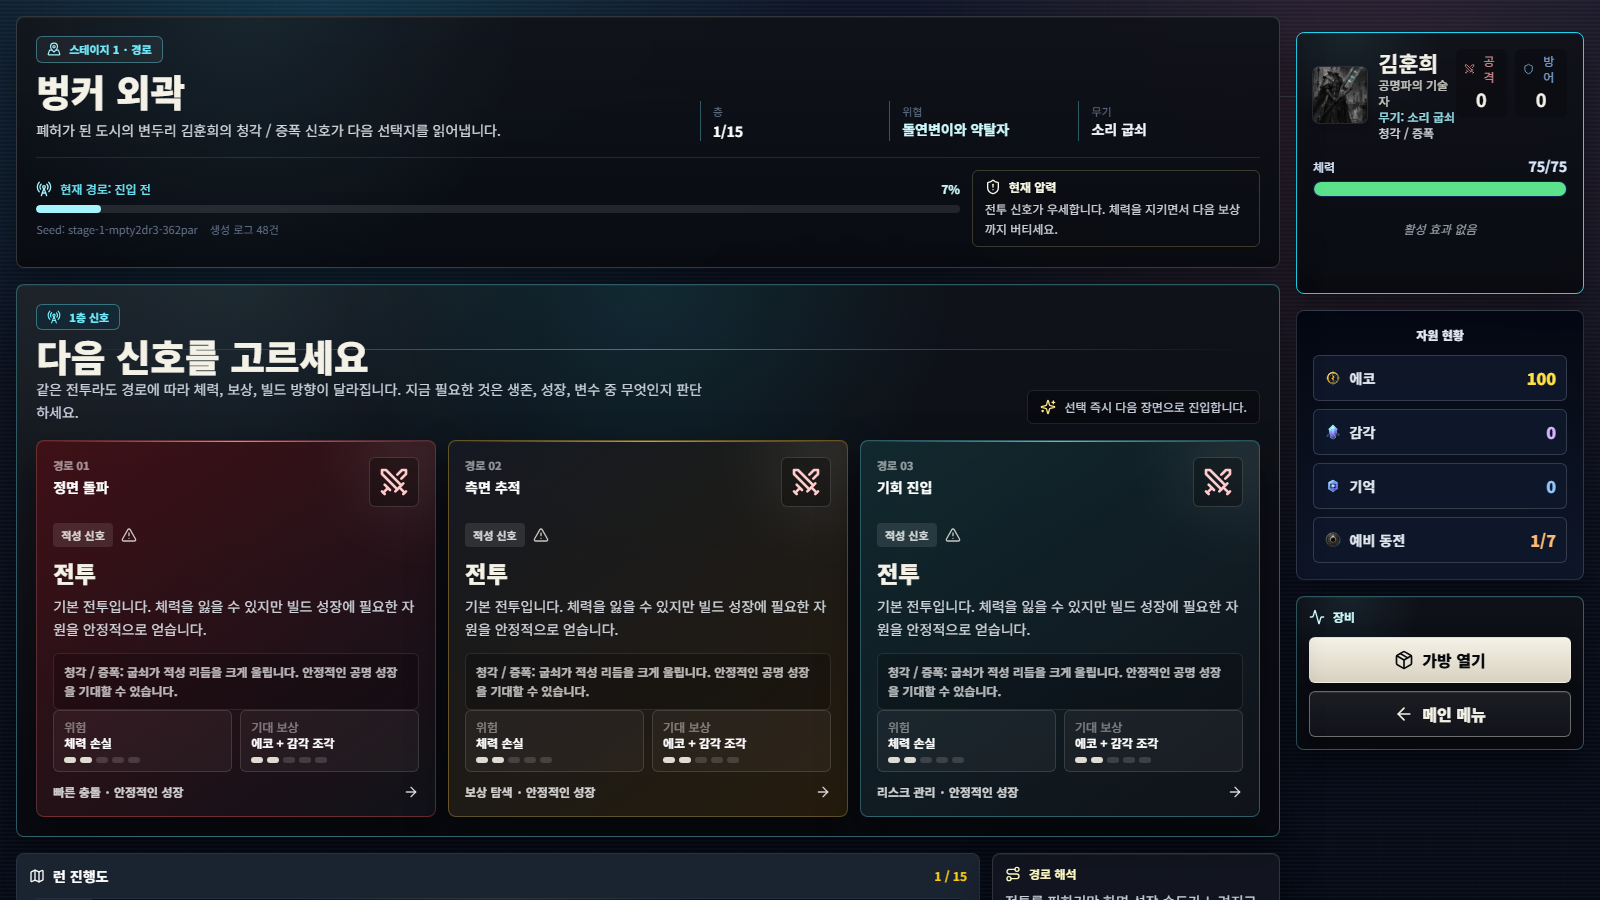
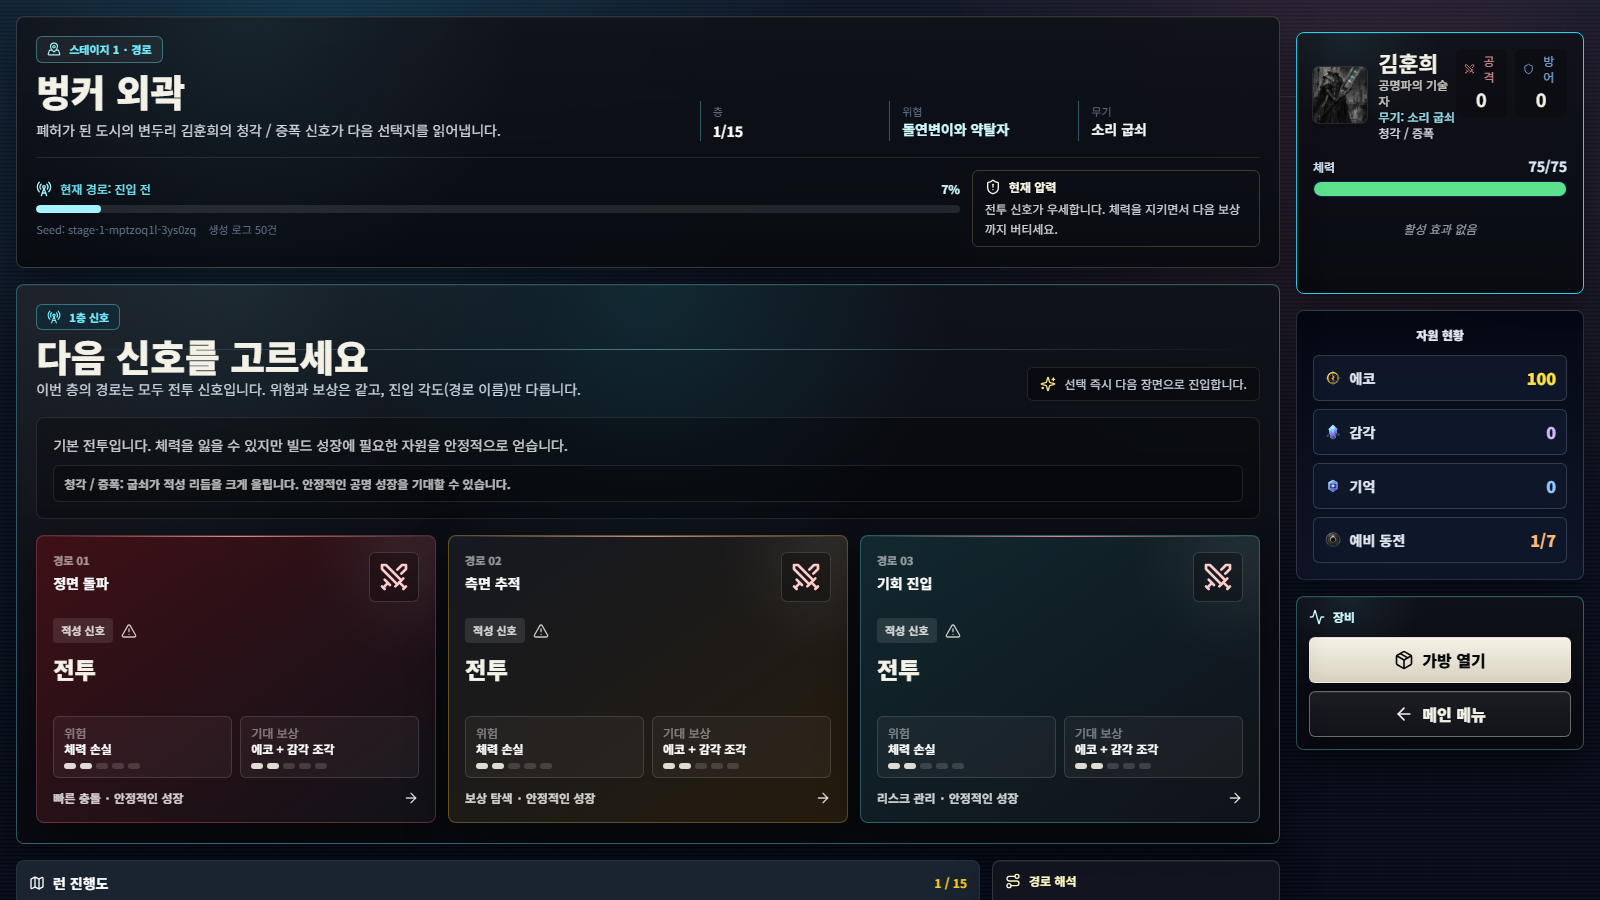
fix(exploration): 동일 유형 경로 카드 설명 중복 제거 + 인트로 거짓 문구 정정 (V-1)
- selectNode가 적을 랜덤 풀에서 뽑고 경로 index를 무시 → 세 경로는 게임적으로 동일. 거짓 차별 대신 중복 제거 채택.
- allSameType일 때 공통 description+senseHint를 보드 상단 배너로 1회 이동, 카드는 경로명·routeHint·위험/보상에 집중 (nodePresentation.ts 불변 → util 224 테스트 보존).
- 인트로 거짓 문구(경로에 따라 체력·보상 달라짐 — selectNode와 모순)를 '위험·보상 동일, 진입 각도만 다름'으로 정정.
- 모바일: 기존 .route-signal-board p 숨김으로 빈 배너 박스 노출 → components-03.css 두 @media에 .route-common-brief 숨김 추가(기존 미니멀 유지).
- headless CDP 캡처+DOM 진단으로 데스크탑 배너/모바일 숨김/카드 중복 제거 검증. exploration.png 갱신.

Changed region(s): [[0.0, 0.4044, 0.8125, 1.0], [0.0938, 0.2489, 0.1875, 0.28]]

diff --git a/src/components/NodeSelection.tsx b/src/components/NodeSelection.tsx
@@ -43,6 +43,11 @@ const NodeSelection: React.FC<NodeSelectionProps> = ({ nodes, availableNodeIndic
   const [selectedNode, setSelectedNode] = useState<StageNode | null>(null);
   const gameOptions = useGameStore(state => state.gameOptions);
   const availableNodeSet = new Set(availableNodeIndices);
+  // 같은 유형 노드가 2개 이상이면 카드 본문(타입 설명·감각 신호)이 전부 동일해진다.
+  // 경로 선택은 게임적으로 동일(selectNode가 적을 랜덤 풀에서 뽑고 index를 무시)하므로
+  // 공통 정보는 보드 상단에 1회만 보이고, 카드는 경로 차별 요소(이름·힌트·위험/보상)에 집중.
+  const allSameType = nodes.length > 1 && nodes.every(n => n.type === nodes[0].type);
+  const commonMeta = allSameType ? getNodePresentation(nodes[0], 0, player) : null;
 
   const handleSelect = (node: StageNode, index: number) => {
     if (selectedNode) return;
@@ -73,7 +78,9 @@ const NodeSelection: React.FC<NodeSelectionProps> = ({ nodes, availableNodeIndic
           </div>
           <h2 className="text-2xl font-black text-white sm:text-3xl">다음 신호를 고르세요</h2>
           <p className="mt-1 max-w-2xl text-sm leading-relaxed text-slate-300">
-            같은 전투라도 경로에 따라 체력, 보상, 빌드 방향이 달라집니다. 지금 필요한 것은 생존, 성장, 변수 중 무엇인지 판단하세요.
+            {allSameType && commonMeta
+              ? `이번 층의 경로는 모두 ${commonMeta.label} 신호입니다. 위험과 보상은 같고, 진입 각도(경로 이름)만 다릅니다.`
+              : '같은 전투라도 경로에 따라 체력, 보상, 빌드 방향이 달라집니다. 지금 필요한 것은 생존, 성장, 변수 중 무엇인지 판단하세요.'}
           </p>
         </div>
         <div className="flex items-center gap-2 rounded-md border border-white/10 bg-black/30 px-3 py-2 text-xs text-slate-300">
@@ -81,6 +88,13 @@ const NodeSelection: React.FC<NodeSelectionProps> = ({ nodes, availableNodeIndic
           선택 즉시 다음 장면으로 진입합니다.
         </div>
       </div>
+
+      {allSameType && commonMeta ? (
+        <div className="route-common-brief relative z-10 mb-4 rounded-lg border border-white/10 bg-black/25 p-3 sm:p-4">
+          <p className="text-sm leading-relaxed text-white/80">{commonMeta.description}</p>
+          <p className="mt-2 rounded-md border border-white/10 bg-black/20 px-2.5 py-2 text-xs font-semibold leading-relaxed text-white/70">{commonMeta.senseHint}</p>
+        </div>
+      ) : null}
 
       <div className="relative z-10 grid gap-3 md:grid-cols-3">
         {nodes.map((node, index) => {
@@ -128,10 +142,16 @@ const NodeSelection: React.FC<NodeSelectionProps> = ({ nodes, availableNodeIndic
                 </div>
 
                 <h3 className="text-xl font-black text-white">{meta.label}</h3>
-                <p className="route-node-description mt-2 flex-1 text-sm leading-relaxed text-white/75">{meta.description}</p>
-                <p className="mt-3 rounded-md border border-white/10 bg-black/20 px-2.5 py-2 text-xs font-semibold leading-relaxed text-white/70">
-                  {meta.senseHint}
-                </p>
+                {allSameType ? (
+                  <div className="mt-2 flex-1" aria-hidden />
+                ) : (
+                  <p className="route-node-description mt-2 flex-1 text-sm leading-relaxed text-white/75">{meta.description}</p>
+                )}
+                {!allSameType ? (
+                  <p className="mt-3 rounded-md border border-white/10 bg-black/20 px-2.5 py-2 text-xs font-semibold leading-relaxed text-white/70">
+                    {meta.senseHint}
+                  </p>
+                ) : null}
 
                 <div className="route-node-meta mt-4 grid grid-cols-2 gap-2 text-xs">
                   <div className="rounded-md border border-white/10 bg-black/25 px-2.5 py-2">

diff --git a/src/styles/components/components-03.css b/src/styles/components/components-03.css
@@ -550,6 +550,7 @@
   }
 
   .route-signal-board p,
+  .route-signal-board .route-common-brief,
   .route-signal-board .relative.z-10.mb-4 > div:last-child {
     display: none;
   }
@@ -637,6 +638,7 @@
   }
 
   .route-signal-board p,
+  .route-signal-board .route-common-brief,
   .route-signal-board .relative.z-10.mb-4 > div:last-child {
     display: none;
   }

diff --git a/docs/followup-backlog.md b/docs/followup-backlog.md
@@ -145,9 +145,10 @@
 
 > README 동기화 세션에서 `npm run dev`(localhost)로 4개 화면(메뉴·캐릭터선택·탐험·전투)을 실제 렌더해 관찰. 코드 정적 분석이 아닌 라이브 스크린샷 근거. 아직 착수하지 않았으며, P2-1/P3-1처럼 시각 회귀 QA를 동반해야 하는 항목을 포함한다. 비주얼 자산 완성도 자체는 높아(EXT-3 상당 해소 추정), 아래는 "자산 부재"가 아니라 **레이아웃·정보 중복** 차원이다.
 
-### V-1. (P2) 탐험 노드 — 동일 유형 경로 카드의 설명 문구 중복
+### V-1. (P2) 탐험 노드 — 동일 유형 경로 카드의 설명 문구 중복 — ✅ 완료 (2026-06-01)
 - **관찰**: `NodeSelection`에서 세 경로가 모두 COMBAT일 때 카드 본문("기본 전투입니다…" + "청각/증폭: 글쇠가…")이 글자 단위로 3회 동일 반복. 실질 차별 정보는 하단 한 줄("빠른 흐름" vs "보상 탐색" vs "리스크 관리")과 위험/보상 핍뿐.
 - **방향(안)**: 동일 유형 경로일 때 중복 본문을 1회로 접거나, 경로별 차별 요소(핍·태그·한 줄 요약)를 상단으로 올려 비교 동선 강화. 게임 로직 불변, 표시 전용.
+- **완료 (2026-06-01)**: `selectNode`가 적을 랜덤 풀에서 뽑고 `nodeIndex`를 무시함을 확인 → 경로는 게임적으로 동일하므로 "거짓 차별" 대신 중복 제거 채택. `NodeSelection.tsx`에서 `allSameType`일 때만 분기: 공통 `description`+`senseHint`를 보드 상단 배너로 1회 이동하고 카드에선 제거(경로명·routeHint·위험/보상만 남김). `nodePresentation.ts`는 불변(util 224 테스트 보존). 인트로 거짓 문구("경로에 따라 체력·보상 달라짐" — selectNode 증거와 모순)를 "위험·보상은 같고 진입 각도만 다름"으로 정정. 모바일은 기존 `.route-signal-board p` 숨김 규칙으로 이미 콤팩트했는데 새 배너가 빈 테두리 박스로 노출 → `components-03.css` 두 @media 블록 숨김 셀렉터에 `.route-common-brief` 추가(기존 미니멀 유지). 데스크탑 배너 표시 / 모바일 숨김 / 카드 중복 제거를 headless Chrome+CDP 캡처와 DOM 진단으로 검증. mixed-type 경로 렌더는 불변(검증 불가 영역 비건드림).
 
 ### V-2. (P2) 캐릭터 선택 — 선택 카드의 텍스트·일러스트 겹침
 - **관찰**: 카드가 활성(선택)되면 펼쳐지며 이름·패시브/액티브 칩이 일러스트 중앙부와 겹쳐, 비선택 카드(하단 그라데이션 처리)보다 가독성이 떨어짐.
